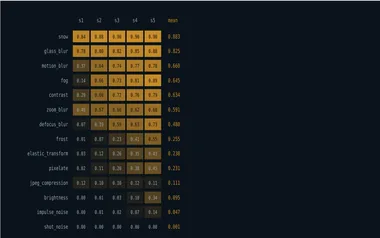
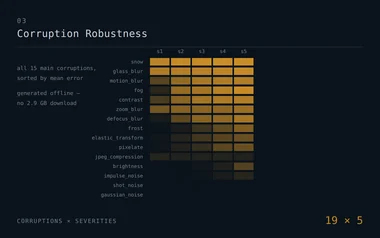
Replace the demo screenshots with drawn cover plates
A shrunken screenshot of a data-heavy page is grey mush at 190px. Each
project now gets a plate drawn from its own numbers — the corruption
surface, the barrier section, the 61 discordant images, the reliability
curve — in one visual system. Alt text describes the diagram rather than
claiming to be a screenshot.

Claude-Session: https://claude.ai/code/session_015HLiNEgxJN1US8GX4mktEn

diff --git a/index.html b/index.html
@@ -515,7 +515,7 @@ footer p { color: var(--mast-ink2); max-width: 54ch; }
 
       <article class="entry">
         <div class="entry-aside">
-          <a class="plate" href="https://mdzayd1003.github.io/multi-agent-research-assistant/" aria-label="Open the live demo"><img src="img/multi-agent-research-assistant.webp" width="380" height="238" loading="lazy" alt="Screenshot of the retrieval demo: a query, its ranked chunks and their cosine scores"></a>
+          <a class="plate" href="https://mdzayd1003.github.io/multi-agent-research-assistant/" aria-label="Open the live demo"><img src="img/multi-agent-research-assistant.webp" width="380" height="238" loading="lazy" alt="Diagram: an orchestrator fanning out to researcher, analyst, writer and critic, beside a bar strip of chunk cosine scores with the top four retained."></a>
           <span class="stack">Python · Streamlit<br>Ollama · Docker<br>FAISS optional</span>
           <span class="count">82 tests</span>
         </div>
@@ -539,7 +539,7 @@ footer p { color: var(--mast-ink2); max-width: 54ch; }
 
       <article class="entry">
         <div class="entry-aside">
-          <a class="plate" href="https://mdzayd1003.github.io/principal-agent-drift/" aria-label="Open the live demo"><img src="img/principal-agent-drift.webp" width="380" height="238" loading="lazy" alt="Screenshot of the transcript browser: a negotiation episode with its flagged mandate violations"></a>
+          <a class="plate" href="https://mdzayd1003.github.io/principal-agent-drift/" aria-label="Open the live demo"><img src="img/principal-agent-drift.webp" width="380" height="238" loading="lazy" alt="Diagram: five pressure conditions, nine episodes each, with violated mandates filled — 3 of 9 under control, 9 of 9 under time pressure."></a>
           <span class="stack">Python<br>standard library only</span>
           <span class="count">79 tests</span>
         </div>
@@ -563,7 +563,7 @@ footer p { color: var(--mast-ink2); max-width: 54ch; }
 
       <article class="entry">
         <div class="entry-aside">
-          <a class="plate" href="https://mdzayd1003.github.io/cross-lingual-consistency/" aria-label="Open the live demo"><img src="img/cross-lingual-consistency.webp" width="380" height="238" loading="lazy" alt="Screenshot of the scorer: matched English and Hindi items side by side"></a>
+          <a class="plate" href="https://mdzayd1003.github.io/cross-lingual-consistency/" aria-label="Open the live demo"><img src="img/cross-lingual-consistency.webp" width="380" height="238" loading="lazy" alt="Diagram: six categories, matched English and Hindi item counts side by side, each gated by a comprehension control."></a>
           <span class="stack">Python<br>standard library only<br>English · Hindi</span>
           <span class="count">110 tests</span>
         </div>
@@ -590,7 +590,7 @@ footer p { color: var(--mast-ink2); max-width: 54ch; }
 
       <article class="entry">
         <div class="entry-aside">
-          <a class="plate" href="https://mdzayd1003.github.io/cifar10c-robustness/" aria-label="Open the live demo"><img src="img/cifar10c-robustness.webp" width="380" height="238" loading="lazy" alt="Screenshot of the robustness table: per-corruption error across five severities"></a>
+          <a class="plate" href="https://mdzayd1003.github.io/cifar10c-robustness/" aria-label="Open the live demo"><img src="img/cifar10c-robustness.webp" width="380" height="238" loading="lazy" alt="Heatmap: fifteen corruptions down, five severities across, shaded by error rate and sorted by mean."></a>
           <span class="stack">PyTorch · NumPy<br>SciPy · ResNet-18<br>CIFAR-10-C</span>
           <span class="count">163 tests</span>
         </div>
@@ -613,7 +613,7 @@ footer p { color: var(--mast-ink2); max-width: 54ch; }
 
       <article class="entry">
         <div class="entry-aside">
-          <a class="plate" href="https://mdzayd1003.github.io/cnn-vs-vit-cifar100/" aria-label="Open the live demo"><img src="img/cnn-vs-vit-cifar100.webp" width="380" height="238" loading="lazy" alt="Screenshot of the head-to-head: per-class F1 deltas between ResNet-18 and ViT-Tiny"></a>
+          <a class="plate" href="https://mdzayd1003.github.io/cnn-vs-vit-cifar100/" aria-label="Open the live demo"><img src="img/cnn-vs-vit-cifar100.webp" width="380" height="238" loading="lazy" alt="Diagram: the 61 images the two models disagree on, split 33 to ResNet-18 and 28 to ViT-Tiny."></a>
           <span class="stack">PyTorch · timm<br>ResNet-18 · ViT-Tiny<br>CIFAR-100</span>
           <span class="count">102 tests</span>
         </div>
@@ -636,7 +636,7 @@ footer p { color: var(--mast-ink2); max-width: 54ch; }
 
       <article class="entry">
         <div class="entry-aside">
-          <a class="plate" href="https://mdzayd1003.github.io/cifar10-model-analysis/" aria-label="Open the live demo"><img src="img/cifar10-model-analysis.webp" width="380" height="238" loading="lazy" alt="Screenshot of the analysis viewer: calibration, probes and layer-wise CKA"></a>
+          <a class="plate" href="https://mdzayd1003.github.io/cifar10-model-analysis/" aria-label="Open the live demo"><img src="img/cifar10-model-analysis.webp" width="380" height="238" loading="lazy" alt="Reliability diagram: measured accuracy against confidence, below the perfect-calibration diagonal, with ECE 0.0713."></a>
           <span class="stack">PyTorch<br>scikit-learn<br>ResNet-18</span>
           <span class="count">99 tests</span>
         </div>
@@ -660,7 +660,7 @@ footer p { color: var(--mast-ink2); max-width: 54ch; }
 
       <article class="entry">
         <div class="entry-aside">
-          <a class="plate" href="https://mdzayd1003.github.io/edge-diffraction-occlusion/" aria-label="Open the live demo"><img src="img/edge-diffraction-occlusion.webp" width="380" height="238" loading="lazy" alt="Screenshot of the barrier calculator: insertion loss recomputing against Maekawa"></a>
+          <a class="plate" href="https://mdzayd1003.github.io/edge-diffraction-occlusion/" aria-label="Open the live demo"><img src="img/edge-diffraction-occlusion.webp" width="380" height="238" loading="lazy" alt="Section: a source, a barrier, and a receiver in the geometric shadow, with sound bending over the edge."></a>
           <span class="stack">MATLAB (Octave)<br>Python port<br>48 kHz</span>
           <span class="count">83 + 12 tests</span>
         </div>
